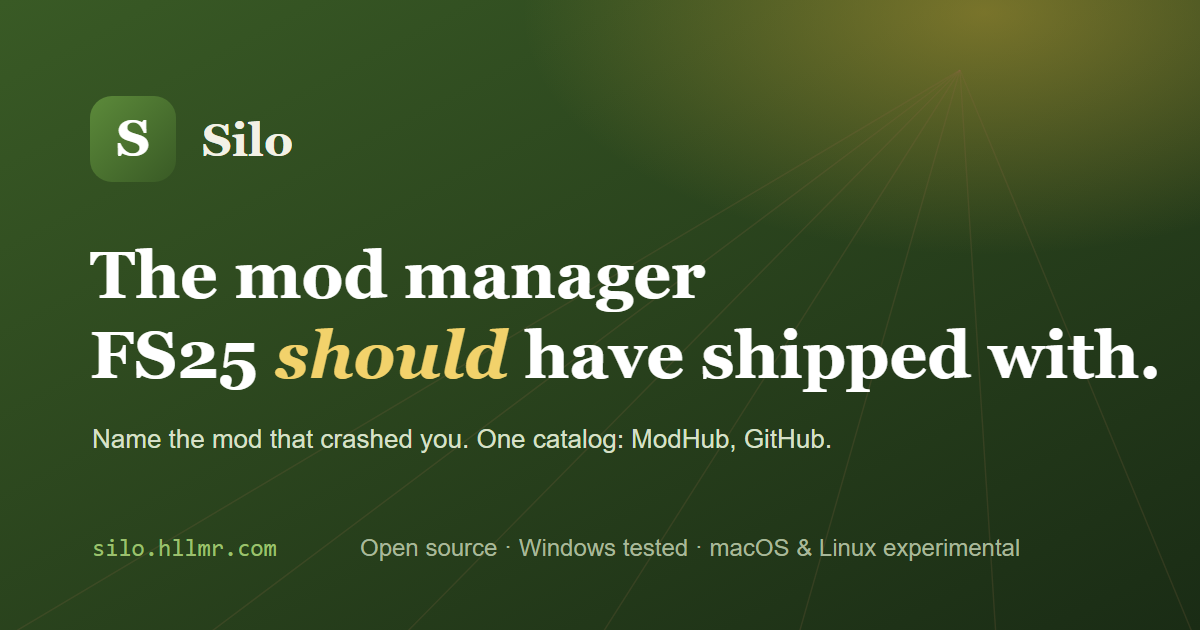
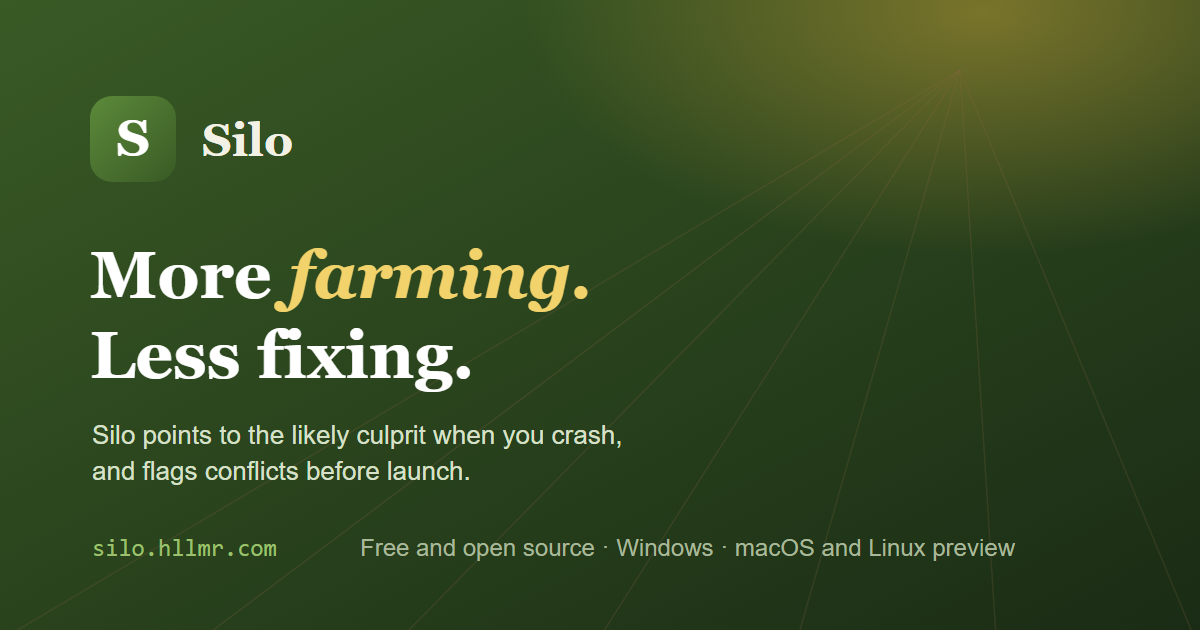
docs: re-render social card; align ownership on HLLMR Ventures LLC; last overclaims
- landing/og.png re-rendered from the new og.svg ('More farming. Less fixing.').
- Ownership: LICENSE, README license line, Cargo authors, site author meta and
  JSON-LD, llms.txt and the site footer now name HLLMR Ventures LLC (Texas).
  tauri.conf.json gets bundle.copyright. VERIFY_DOWNLOAD explains the Windows
  certificate is the founder's personal one.
- Remaining overclaims: in-app Organize preview and Settings hint no longer
  say 'nothing leaves your machine' / 'fully reversible'; the site says
  Restore vanilla layout (the real button name); 'backs up before it
  overwrites anything' narrowed to settings and savegames; Browse page says
  'no ads' instead of 'no tracking'.

Changed region(s): [[0.0617, 0.3921, 0.9867, 0.6333], [0.0617, 0.6635, 0.7092, 0.7841], [0.3083, 0.8444, 0.8633, 0.9048]]

diff --git a/landing/index.html b/landing/index.html
@@ -22,7 +22,7 @@
 <meta name="twitter:image" content="https://silo.hllmr.com/og.png" />
 <link rel="canonical" href="https://silo.hllmr.com/" />
 <meta name="robots" content="index, follow, max-image-preview:large, max-snippet:-1, max-video-preview:-1" />
-<meta name="author" content="HLLMR" />
+<meta name="author" content="HLLMR Ventures LLC" />
 <meta name="theme-color" content="#4a7330" media="(prefers-color-scheme: light)" />
 <meta name="theme-color" content="#171a14" media="(prefers-color-scheme: dark)" />
 <link rel="icon" href="/favicon.ico" sizes="any" />
@@ -325,7 +325,7 @@
       "applicationCategory": "UtilitiesApplication",
       "applicationSubCategory": "Mod Manager",
       "operatingSystem": "Windows, macOS, Linux",
-      "description": "Silo is a free, open-source mod manager for Farming Simulator 25. It reads your mods and your game log, ranks the likely culprit when the game crashes, flags conflicts before launch, pulls ModHub and GitHub into one catalog, and checks an installed mod against the build its source published. Every move is previewed first, and Restore vanilla puts your mods folder back.",
+      "description": "Silo is a free, open-source mod manager for Farming Simulator 25. It reads your mods and your game log, ranks the likely culprit when the game crashes, flags conflicts before launch, pulls ModHub and GitHub into one catalog, and checks an installed mod against the build its source published. Every move is previewed first, and Restore vanilla layout puts your mods folder back.",
       "downloadUrl": "https://github.com/HLLMR/silo/releases",
       "softwareVersion": "beta",
       "releaseNotes": "https://github.com/HLLMR/silo/releases",
@@ -349,7 +349,7 @@
     },
     {
       "@type": "Organization",
-      "name": "HLLMR",
+      "name": "HLLMR Ventures LLC",
       "url": "https://github.com/HLLMR",
       "sameAs": ["https://github.com/HLLMR/silo"]
     },
@@ -358,7 +358,7 @@
       "mainEntity": [
         { "@type": "Question", "name": "Is Silo free?", "acceptedAnswer": { "@type": "Answer", "text": "Yes. Silo is free and open source (MIT), with no account to create, no ads, no paid tier and no telemetry. The desktop app's source is on GitHub to audit, fork or build yourself. The catalog it talks to is a separate hosted service." } },
         { "@type": "Question", "name": "What does Silo actually do?", "acceptedAnswer": { "@type": "Answer", "text": "It manages your Farming Simulator 25 mods. Silo organizes the library and reads log.txt to rank the likely culprit when the game crashes. It flags conflicts before launch, such as more than one active map and colliding filltypes, vehicle types or scripts. And it pulls ModHub and GitHub into one catalog that shows the latest version found across both." } },
-        { "@type": "Question", "name": "Does Silo move or modify my mod files?", "acceptedAnswer": { "@type": "Answer", "text": "It moves them, and it never edits inside a mod. Silo files your ZIPs into a local archive, then links only your active set into the game's mods folder at launch. Every move is previewed first, and Restore vanilla puts your mods folder back. It backs up before it overwrites anything or edits a savegame." } },
+        { "@type": "Question", "name": "Does Silo move or modify my mod files?", "acceptedAnswer": { "@type": "Answer", "text": "It moves them, and it never edits inside a mod. Silo files your ZIPs into a local archive, then links only your active set into the game's mods folder at launch. Every move is previewed first, and Restore vanilla layout puts your mods folder back. It backs up settings and savegames before editing them." } },
         { "@type": "Question", "name": "Which platforms does Silo support?", "acceptedAnswer": { "@type": "Answer", "text": "Windows is the tested, supported platform today. macOS (Intel and Apple Silicon) and Linux builds are a preview and largely untested, and we're actively seeking testers on those platforms. It's one native app with per-OS game discovery and no runtime to install." } },
         { "@type": "Question", "name": "Does Silo work with ModHub and GitHub?", "acceptedAnswer": { "@type": "Answer", "text": "Yes. Silo keeps one record per mod that pulls both together, so you see the latest version found across them. You can act on each through your own accounts: star on GitHub, rate on ModHub. Silo just opens the door; your credentials stay on your machine." } },
         { "@type": "Question", "name": "Does Silo collect any data about me?", "acceptedAnswer": { "@type": "Answer", "text": "No account, no ads, no telemetry. Silo contacts its catalog only when you ask: searching Browse, opening a mod's details, checking for updates, or verifying a mod. Each request carries what it needs, such as your search terms or the identifiers and versions of the mods being checked. Separately, Silo checks GitHub for its own app updates at launch, and that check sends no library data. Silo never uploads your saves, mod archives, notes or personal files." } }
@@ -448,7 +448,7 @@
       <div class="card">
         <div class="glyph">≋</div>
         <h3>Loadouts &amp; projection</h3>
-        <p>Build a profile for each playthrough. At launch, Silo links only the active set into the game folder. Your zips live in a local archive, every move is previewed first, and Restore vanilla puts your mods folder back.</p>
+        <p>Build a profile for each playthrough. At launch, Silo links only the active set into the game folder. Your zips live in a local archive, every move is previewed first, and Restore vanilla layout puts your mods folder back.</p>
       </div>
       <div class="card">
         <div class="glyph">⛓</div>
@@ -510,7 +510,7 @@
       <div class="ethos-grid">
         <div><p class="m">// open</p><h3>Open source</h3><p>The desktop app's source is on GitHub under the MIT license. Audit it, fork it, build it yourself. The catalog it talks to is a separate hosted service.</p></div>
         <div><p class="m">// quiet</p><h3>No account, no ads, no telemetry</h3><p>Silo contacts its catalog only when you search Browse, open a mod's details, check for updates or verify a mod. It also checks GitHub for its own app updates at launch, which sends no library data. Your saves, mod files and notes stay on your machine.</p></div>
-        <div><p class="m">// safe</p><h3>Previewed first</h3><p>Silo files your mods into a local archive and links the active set into the game. Every move is previewed first, and Restore vanilla puts your mods folder back. It only ever removes files it put there itself, and it backs up before it overwrites anything.</p></div>
+        <div><p class="m">// safe</p><h3>Previewed first</h3><p>Silo files your mods into a local archive and links the active set into the game. Every move is previewed first, and Restore vanilla layout puts your mods folder back. It only ever removes files it put there itself, and it backs up settings and savegames before editing them.</p></div>
         <div><p class="m">// everywhere</p><h3>Windows today · macOS and Linux preview</h3><p>One native app, per-OS game discovery, no runtime. Windows is tested; macOS and Linux are a preview and seeking testers.</p></div>
       </div>
     </div>
@@ -550,7 +550,7 @@
       </details>
       <details>
         <summary>Does Silo move or modify my mod files?</summary>
-        <p>It moves them, and it never edits inside a mod. Silo files your ZIPs into a local archive, then links only your active set into the game's mods folder at launch. Every move is previewed first, and Restore vanilla puts your mods folder back. It backs up before it overwrites anything or edits a savegame.</p>
+        <p>It moves them, and it never edits inside a mod. Silo files your ZIPs into a local archive, then links only your active set into the game's mods folder at launch. Every move is previewed first, and Restore vanilla layout puts your mods folder back. It backs up settings and savegames before editing them.</p>
       </details>
       <details>
         <summary>Which platforms does Silo support?</summary>

diff --git a/landing/browse/index.html b/landing/browse/index.html
@@ -5,9 +5,9 @@
 <meta name="viewport" content="width=device-width, initial-scale=1" />
 <title>Browse the FS25 mod catalog — Silo</title>
 <script src="/nav.js"></script>
-<meta name="description" content="Browse the Farming Simulator 25 mod catalog Silo has aggregated from ModHub and GitHub — search, filter, and see which builds are integrity-verified. No account, no download, no tracking. Every mod links back to its original source." />
+<meta name="description" content="Browse the Farming Simulator 25 mod catalog Silo has aggregated from ModHub and GitHub — search, filter, and see which builds are integrity-verified. No account, no download, no ads. Every mod links back to its original source." />
 <meta property="og:title" content="Browse the FS25 mod catalog — Silo" />
-<meta property="og:description" content="Search thousands of Farming Simulator 25 mods aggregated from ModHub and GitHub. No account, no tracking — every mod links back to its source." />
+<meta property="og:description" content="Search thousands of Farming Simulator 25 mods aggregated from ModHub and GitHub. No account, no ads — every mod links back to its source." />
 <meta property="og:type" content="website" />
 <meta property="og:url" content="https://silo.hllmr.com/browse/" />
 <meta property="og:site_name" content="Silo" />
@@ -244,7 +244,7 @@
 <main>
   <section class="head">
     <div class="wrap">
-      <p class="eyebrow">Public catalog · no account · no tracking</p>
+      <p class="eyebrow">Public catalog · no account · no ads</p>
       <h2>Browse the FS25 mod catalog.</h2>
       <p>
         <span class="count" id="statLine">Loading the catalog…</span>

diff --git a/landing/help/index.html b/landing/help/index.html
@@ -111,7 +111,7 @@
   <div class="wrap">
     <p class="eyebrow">User guide</p>
     <h2>Everything Silo can do, explained.</h2>
-    <p>From your first scan to conflict triage, mod verification, savegame edits and multiplayer sync. Silo is free and open source. Every move is previewed first, and Restore vanilla puts your mods folder back.</p>
+    <p>From your first scan to conflict triage, mod verification, savegame edits and multiplayer sync. Silo is free and open source. Every move is previewed first, and Restore vanilla layout puts your mods folder back.</p>
   </div>
 </section>
 
@@ -148,7 +148,7 @@
 
 <p>Silo is a desktop app for managing your Farming Simulator 25 mods. It is <strong>not an in-game mod</strong> and you don't install it into the game — it's a standalone program that runs on your computer alongside FS25. It scans your existing mod library, organizes it, catches conflicts before you launch, triages crashes, and tracks updates.</p>
 
-<p>Silo never edits the game itself. It works with the files FS25 already keeps in <code>Documents\My Games\FarmingSimulator2025\</code>. Every move is previewed first, and Restore vanilla puts your mods folder back.</p>
+<p>Silo never edits the game itself. It works with the files FS25 already keeps in <code>Documents\My Games\FarmingSimulator2025\</code>. Every move is previewed first, and Restore vanilla layout puts your mods folder back.</p>
 
 <h3>Installing on Windows</h3>
 

diff --git a/src/lib/components/panels/SettingsPanel.svelte b/src/lib/components/panels/SettingsPanel.svelte
@@ -278,8 +278,8 @@
     <div class="set-label">Library layout</div>
     <div class="set-hint">
       Organize sorts your <code>.zip</code> mods into <code>mods/archive/&lt;Category&gt;/</code>
-      (subfolders the game ignores) and projects the active set via hardlinks — no
-      duplication, fully reversible. {#if organizedCount > 0}{organizedCount} mod(s) currently organized.{/if}
+      (subfolders the game ignores) and links the active set back into your mods folder.
+      <b>Restore vanilla layout</b> puts every mod back. {#if organizedCount > 0}{organizedCount} mod(s) currently organized.{/if}
     </div>
     <div class="set-btnrow">
       <button class="set-btn" onclick={onOrganize} disabled={locked} title={lockTitle}>

diff --git a/src/lib/components/OrganizePreview.svelte b/src/lib/components/OrganizePreview.svelte
@@ -69,9 +69,9 @@
     {:else}
       <p class="lead">
         This files your loose mod zips into <code>mods/archive/&lt;Category&gt;/</code>.
-        Active mods stay loaded (projected back as same-volume hardlinks — no copies, no
-        disk used), nothing leaves your machine, and it's fully reversible with
-        <b>Restore vanilla</b>. Nothing has moved yet.
+        Active mods stay loaded: Silo links them back into your mods folder, so in most
+        setups they take no extra disk space. Nothing has moved yet, and
+        <b>Restore vanilla layout</b> in Settings puts every mod back.
       </p>
 
       <div class="groups">

diff --git a/landing/nav.js b/landing/nav.js
@@ -59,7 +59,7 @@
     '<a href="/trust/">Trust</a><a href="/legal/">Legal</a>' +
     '<a href="https://github.com/HLLMR/silo" rel="noopener">Source</a>' +
     "</nav>" +
-    '<span class="silo-ftnote">Silo indexes and verifies — it doesn\'t host mods. Aggregated from public sources · not affiliated with GIANTS Software.</span>' +
+    '<span class="silo-ftnote">Silo indexes and verifies — it doesn\'t host mods. Aggregated from public sources · not affiliated with GIANTS Software. © HLLMR Ventures LLC.</span>' +
     "</div></footer>";
 
   function mount() {

diff --git a/README.md b/README.md
@@ -106,8 +106,8 @@ npm run tauri:build   # produce an installer in src-tauri/target/release/bundle/
   data. Your saves, mod files and notes are never uploaded.
 - **Previewed first, and it owns what it touches** — it files your mods into a local archive
   and links the active set into the game; every move is previewed first, and *Restore
-  vanilla* puts your mods folder back. It only ever removes files it put there itself (your
-  own edits are left alone), and it backs up before any overwrite.
+  vanilla layout* puts your mods folder back. It only ever removes files it put there itself (your
+  own edits are left alone), and it backs up settings and savegames before editing them.
 - **Verifiable** — the integrity check compares an installed mod to the build its source
   published, byte for byte.
 
@@ -134,7 +134,7 @@ it, audit it, build it yourself.
 
 ## License
 
-[MIT](LICENSE) © HLLMR. Use it, fork it, ship it.
+[MIT](LICENSE) © HLLMR Ventures LLC (Texas, USA). Use it, fork it, ship it.
 
 ---
 

diff --git a/docs/legal/README.md b/docs/legal/README.md
@@ -39,7 +39,9 @@ good-faith compliance while review is pending).
   as processor, and the right to complain to a supervisory authority.
 - **ModHub content:** the catalog's handling of ModHub images and metadata is under
   discussion with GIANTS. Revisit the "doesn't host or mirror" wording once that's settled.
-- **Publisher identity:** align the copyright line, these documents and the code-signing
-  identity on one legal name.
+- **Publisher identity:** settled. HLLMR Ventures LLC (Texas) owns Silo; the copyright
+  line, these documents and the site use that name. Windows code signing stays under the
+  founder's personal certificate (David Hellmer) by choice, and `docs/VERIFY_DOWNLOAD.md`
+  explains that.
 - **Effective date:** set one date across all four documents when they're finalized, then
   remove the "DRAFT — NOT REVIEWED" banner from `landing/legal/*.html`.

diff --git a/docs/VERIFY_DOWNLOAD.md b/docs/VERIFY_DOWNLOAD.md
@@ -6,6 +6,10 @@ Trusted/Artifact Signing). The signature proves two things:
 - **Who published the files** — a verified identity, not an anonymous upload.
 - **That they haven't been altered** since they were signed.
 
+Silo is published by **HLLMR Ventures LLC** (Texas, USA). The Windows code-signing
+certificate is held personally by the company's founder, so Windows shows that personal
+name as the publisher.
+
 The publisher shown by Windows is:
 
 ```
